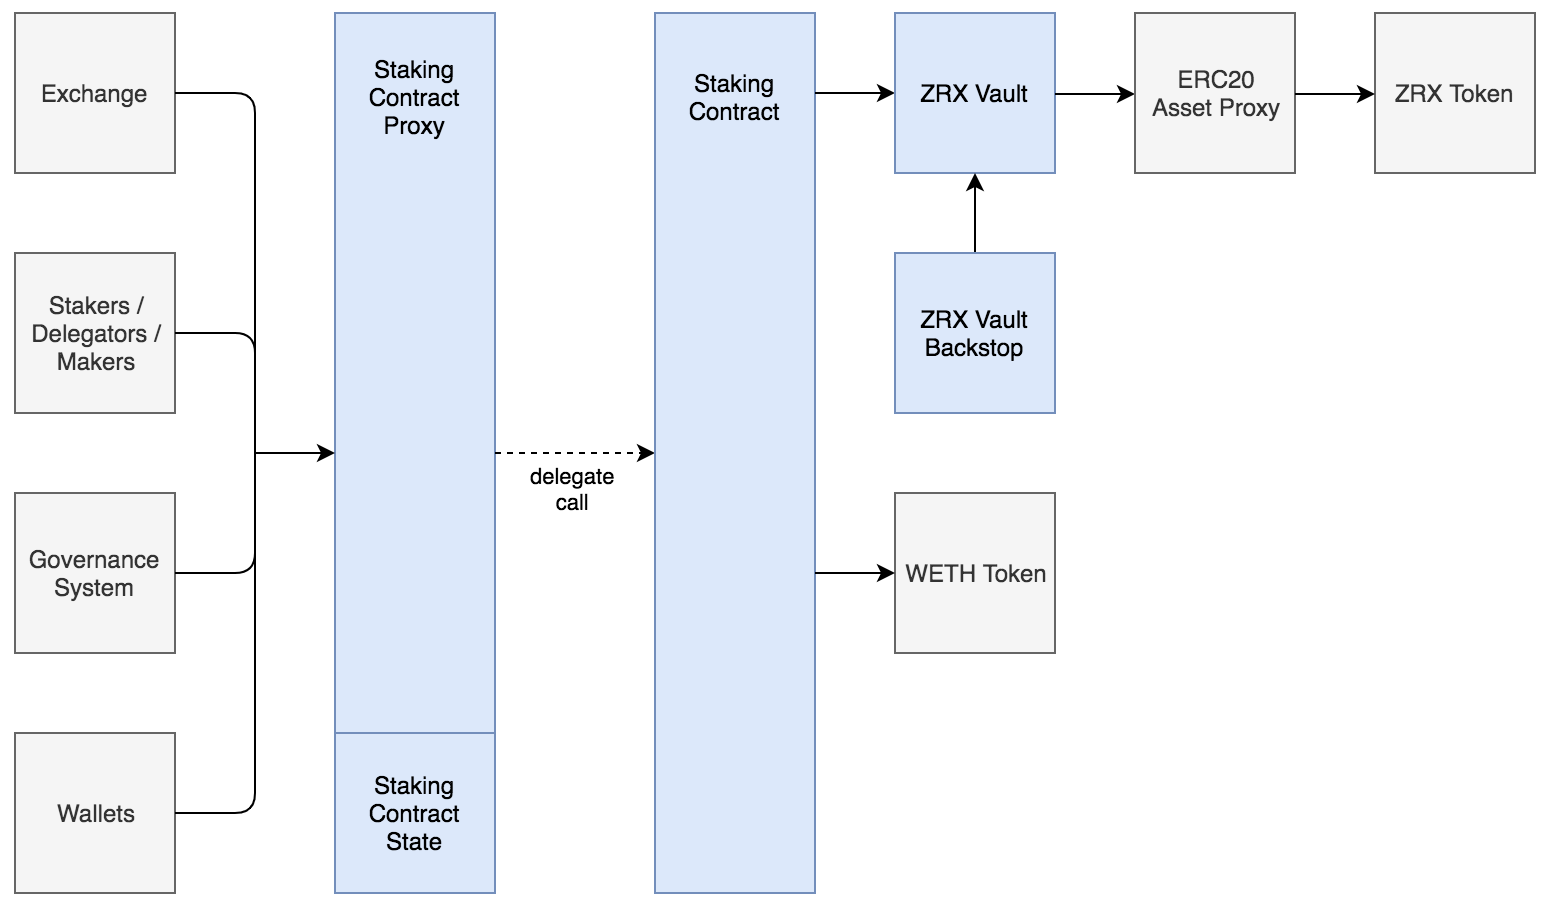
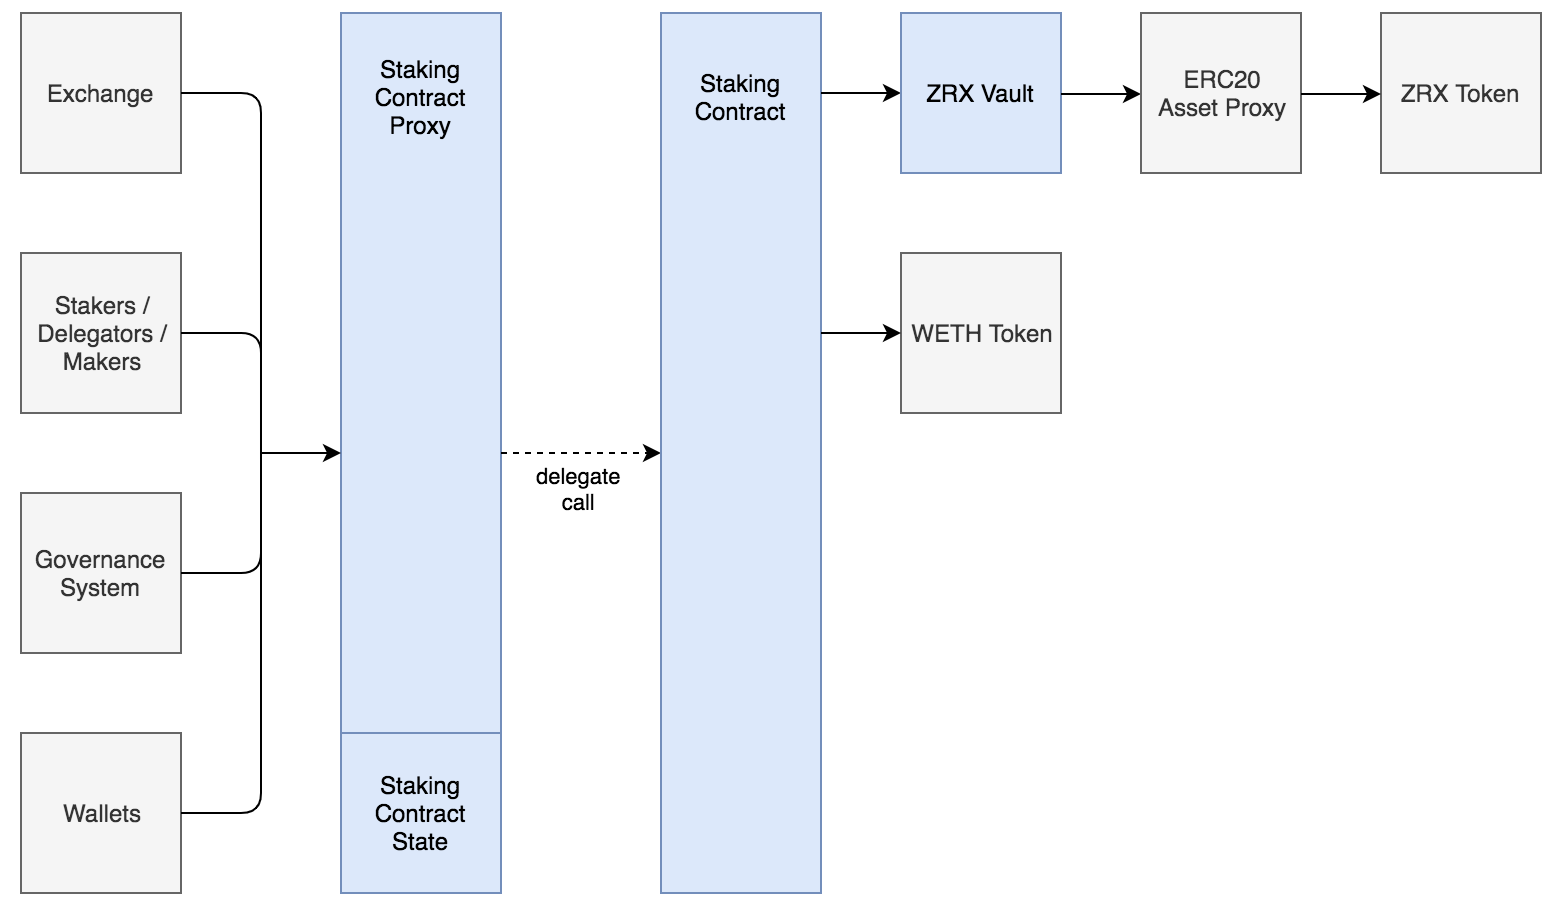
Removed Read-Only Proxy and ZRX Vault Backstop

diff --git a/staking/staking-specification.md b/staking/staking-specification.md
@@ -1,12 +1,12 @@
 # 0x protocol Staking specification
 
 ## Table of Contents
-[1 Overview](#1-overview)
+<br>[1 Overview](#1-overview)
 <br>&nbsp;&nbsp;&nbsp;&nbsp;[1.1 Motivation](#11-motivation)
 <br>&nbsp;&nbsp;&nbsp;&nbsp;[1.2 Utility of Stake](#12-utility-of-stake)
 <br>&nbsp;&nbsp;&nbsp;&nbsp;[1.3 Staking Pools](#13-staking-pools)
 <br>[2 Architecture](#2-architecture)
-<br>&nbsp;&nbsp;&nbsp;&nbsp;[2.1 Read-Only Mode](#21-read-only-mode)
+<br>&nbsp;&nbsp;&nbsp;&nbsp;[2.1 Normal Mode](#21-normal-mode)
 <br>&nbsp;&nbsp;&nbsp;&nbsp;[2.2 Catastrophic Failure Mode](#22-catastrophic-failure-mode)
 <br>[3 Contract Migrations](#3-contract-migrations)
 <br>&nbsp;&nbsp;&nbsp;&nbsp;[3.1 Deploying the system](#31-deploying-the-system)
@@ -16,11 +16,10 @@
 <br>&nbsp;&nbsp;&nbsp;&nbsp;[3.5 Handling upgrades to the ERC20 Proxy or ERC20 Asset Data](#35-handling-upgrades-to-the-erc20-proxy-or-erc20-asset-data)
 <br>&nbsp;&nbsp;&nbsp;&nbsp;[3.6 Setting Parameters](#36-setting-parameters)
 <br>&nbsp;&nbsp;&nbsp;&nbsp;[3.7 Managing Exchange Addresses](#37-managing-exchange-addresses)
-<br>&nbsp;&nbsp;&nbsp;&nbsp;[3.8 Forcing Catastrophic Failure after Prolonged Read-Only Mode](#38-forcing-catastrophic-failure-after-prolonged-read-only-mode)
 <br>[4 Epochs & Scheduling](#4-epochs--scheduling)
 <br>&nbsp;&nbsp;&nbsp;&nbsp;[4.1 Ending One Epoch, and Starting a New One](#41-ending-one-epoch-and-starting-a-new-one)
-<br>&nbsp;&nbsp;&nbsp;&nbsp;&nbsp;&nbsp;&nbsp;&nbsp;[4.1 Logic of `endEpoch`](#41-logic-of-endepoch)
-<br>&nbsp;&nbsp;&nbsp;&nbsp;&nbsp;&nbsp;&nbsp;&nbsp;[4.1 Errors by `endEpoch`](#41-errors-by-endepoch)
+<br>&nbsp;&nbsp;&nbsp;&nbsp;&nbsp;&nbsp;&nbsp;&nbsp;[4.1.1 Logic of `endEpoch`](#411-logic-of-endepoch)
+<br>&nbsp;&nbsp;&nbsp;&nbsp;&nbsp;&nbsp;&nbsp;&nbsp;[4.1.2 Errors by `endEpoch`](#412-errors-by-endepoch)
 <br>[5 Staking](#5-staking)
 <br>&nbsp;&nbsp;&nbsp;&nbsp;&nbsp;&nbsp;&nbsp;&nbsp;[5.0.1 Logic of `stake`](#501-logic-of-stake)
 <br>&nbsp;&nbsp;&nbsp;&nbsp;&nbsp;&nbsp;&nbsp;&nbsp;[5.0.2 Errors by `stake`](#502-errors-by-stake)
@@ -54,24 +53,18 @@
 <br>&nbsp;&nbsp;&nbsp;&nbsp;[9.1 Staking Logic Contract](#91-staking-logic-contract)
 <br>&nbsp;&nbsp;&nbsp;&nbsp;[9.2 Staking Contract State](#92-staking-contract-state)
 <br>&nbsp;&nbsp;&nbsp;&nbsp;[9.3 Staking Proxy Contract](#93-staking-proxy-contract)
-<br>&nbsp;&nbsp;&nbsp;&nbsp;[9.4 Read-Only Proxy Contract](#94-read-only-proxy-contract)
-<br>&nbsp;&nbsp;&nbsp;&nbsp;[9.5 ZRX Vault](#95-zrx-vault)
-<br>&nbsp;&nbsp;&nbsp;&nbsp;[9.6 ZRX Vault Backstop](#96-zrx-vault-backstop)
-<br>&nbsp;&nbsp;&nbsp;&nbsp;[9.7 Structs](#97-structs)
+<br>&nbsp;&nbsp;&nbsp;&nbsp;[9.4 ZRX Vault](#94-zrx-vault)
+<br>&nbsp;&nbsp;&nbsp;&nbsp;[9.5 Structs](#95-structs)
 <br>[10 Events](#10-events)
 <br>&nbsp;&nbsp;&nbsp;&nbsp;[10.1 Staking Logic Contract](#101-staking-logic-contract)
 <br>&nbsp;&nbsp;&nbsp;&nbsp;[10.2 Staking Proxy Contract](#102-staking-proxy-contract)
-<br>&nbsp;&nbsp;&nbsp;&nbsp;[10.3 Read-Only Proxy Contract](#103-read-only-proxy-contract)
-<br>&nbsp;&nbsp;&nbsp;&nbsp;[10.4 ZRX Vault](#104-zrx-vault)
-<br>&nbsp;&nbsp;&nbsp;&nbsp;[10.5 ZRX Vault Backstop](#105-zrx-vault-backstop)
+<br>&nbsp;&nbsp;&nbsp;&nbsp;[10.3 ZRX Vault](#103-zrx-vault)
 <br>[11 Algorithms, Data Structures & Design Patterns](#11-algorithms-data-structures--design-patterns)
 <br>&nbsp;&nbsp;&nbsp;&nbsp;[11.1 Securing the Proxy Pattern](#111-securing-the-proxy-pattern)
-<br>&nbsp;&nbsp;&nbsp;&nbsp;[11.2 The Read-Only Proxy](#112-the-read-only-proxy)
-<br>&nbsp;&nbsp;&nbsp;&nbsp;[11.3 Tracking for Reward Balances for Pool Members](#113-tracking-for-reward-balances-for-pool-members)
-<br>&nbsp;&nbsp;&nbsp;&nbsp;&nbsp;&nbsp;&nbsp;&nbsp;[11.3.1 Computing Rewards in Practice](#1131-computing-rewards-in-practice)
-<br>&nbsp;&nbsp;&nbsp;&nbsp;&nbsp;&nbsp;&nbsp;&nbsp;[11.3.2 Handling Epochs With No Rewards](#1132-handling-epochs-with-no-rewards)
-<br>&nbsp;&nbsp;&nbsp;&nbsp;[11.4 Stake Management](#114-stake-management)
-
+<br>&nbsp;&nbsp;&nbsp;&nbsp;[11.2 Tracking for Reward Balances for Pool Members](#112-tracking-for-reward-balances-for-pool-members)
+<br>&nbsp;&nbsp;&nbsp;&nbsp;&nbsp;&nbsp;&nbsp;&nbsp;[11.2.1 Computing Rewards in Practice](#1121-computing-rewards-in-practice)
+<br>&nbsp;&nbsp;&nbsp;&nbsp;&nbsp;&nbsp;&nbsp;&nbsp;[11.2.2 Handling Epochs With No Rewards](#1122-handling-epochs-with-no-rewards)
+<br>&nbsp;&nbsp;&nbsp;&nbsp;[11.3 Stake Management](#113-stake-management)
 
 ## 1 Overview
 
@@ -97,42 +90,29 @@ Staking pools can also be used to increase voting power. Delegators share a port
 
 ## 2 Architecture
 
-The smart contract architecture is derived from the proxy pattern, which allows state to be retained across upgrades to the logic.
-
-This system is composed of five contracts:
+The system of staking contracts is composed of three contracts.
 
 |Contract|Description |
 |--|--|
-| Staking Contract | An upgradeable/stateless contract that implements staking logic |
+|Staking Contract| An upgradeable/stateless contract that implements staking logic|
 |Staking Proxy|Stores staking state and delegates to the Staking Contract|
-|Read-Only Proxy|Forces read-only calls to the Staking Contract|
 |ZRX Vault|Securely holds staked ZRX Tokens|
-|ZRX Vault Backstop|Failsafe allowing users to withdraw their ZRX directly from the ZRX Vault|
 
-The diagram below shows how these contracts connect to each other and the broader 0x ecosystem.
+### 2.1 Normal Mode
+
+The diagram below shows how the staking contracts connect to each other and the broader 0x ecosystem.
 
 <p align="center"><img src="./assets/Staking%20Architecture%20-%20Basic.png" width="700" /></p>
 
-
-### 2.1 Read-Only Mode
-
-If a vulnerability is discovered in the staking contract, operations may be halted to conduct forensics:
-
-1.  The 0x Exchange contract stops charging protocol fees.
-2.  The staking contract is set to read-only mode.
-
-<p align="center"><img src="./assets/Staking%20Architecture%20-%20Read-Only.png" width="750" /></p>
-
 ### 2.2 Catastrophic Failure Mode
 
-In this worst-case scenario, state has been irreparably corrupted and the staking contracts must be redeployed. Users would re-stake under the new system, at will.
+In this worst-case scenario, state has been irreparably corrupted and the staking contracts must be redeployed. Users would withdraw their ZRX and re-stake under the new system.
 
-1. The ZRX vault is detached from the staking contract.
-2. Users withdraw their funds from the ZRX vault directly.
+1. The 0x Exchange contract stops charging protocol fees.
+2. The ZRX vault is detached from the staking contract.
+3. Users withdraw their funds from the ZRX vault directly.
 
 <p align="center"><img src="./assets/Staking%20Architecture%20-%20Catastrophic%20Failure.png" width="750" /></p>
-
-Note: Anyone can enable Catastrophic Failure Mode by calling the ZRX Vault Backstop after the system has been in Read-Only Mode for 40 days.
 
 ## 3 Contract Migrations
 
@@ -143,9 +123,7 @@ This section outlines steps for managing the system of smart contracts. Operatio
 1. Deploy ZRX Vault.
 2. Deploy Staking Contract (address of ZRX Vault is hardcoded in this contract).
 3. Deploy Staking Proxy.
-4. Deploy Read-Only Proxy.
-5. Attach Staking Contract to Staking Proxy.
-6. Deploy ZRX Vault Backstop.
+4. Attach Staking Contract to Staking Proxy.
 
 ### 3.2 Upgrading Staking Proxy
 
@@ -231,17 +209,6 @@ function validExchanges(address addr)
     returns (bool isValid);
 ```
 
-### 3.8 Forcing Catastrophic Failure after Prolonged Read-Only Mode
-
-After the system has been in Read-Only mode for 40 days, anyone can force the ZRX Vault into Catastrophic Failure Mode by calling into the ZRX Vault Backstop contract.
-
-```solidity
-/// @dev Triggers catastophic failure mode in the zrxzVault iff read-only mode
-///      has been continuously set for at least 40 days.
-function enterCatastrophicFailureIfProlongedReadOnlyMode()
-    external;
-```
-
 ## 4 Epochs & Scheduling
 
 All processes in the system are segmented into contiguous time intervals, called epochs. Epochs have a fixed minimum period (10 days at time of writing), which is configurable via [MixinParams](https://github.com/0xProject/0x-monorepo/blob/3.0/contracts/staking/contracts/src/sys/MixinParams.sol). Epochs serve as the basis for all other timeframes within the system, which provides a more stable and consistent scheduling metric than blocks or block timestamps.
@@ -264,7 +231,7 @@ function endEpoch()
 
 The return value describes the number of pools to finalize; this concept is described in [Section 6.2](#62-paying-liquidity-rewards-finalization).
 
-#### 4.1 Logic of `endEpoch`
+#### 4.1.1 Logic of `endEpoch`
 
 When this function is called:
 1. Assert the previous epoch (`currentEpoch-1`) is finalized: all rewards have been paid to pools.
@@ -275,7 +242,7 @@ When this function is called:
 6. Increase the `currentEpoch` by 1.
 7. If no pools earned rewards this epoch then the epoch is implicitly finalized; emit the [EpochFinalized](https://github.com/0xProject/0x-monorepo/blob/3.0/contracts/staking/contracts/src/interfaces/IStakingEvents.sol#L72) Event.
 
-#### 4.1 Errors by `endEpoch`
+#### 4.1.2 Errors by `endEpoch`
 
 |Error|Condition|
 |--|--|
@@ -703,8 +670,6 @@ function batchExecute(bytes[] calldata data)
 2. Execute each call to the Staking Contract, constructing an array of return data.
 3. Revert if a single call fails.
 
-Note that if the system is in Read-Only mode then batch transactions will route through the Read-Only proxy.
-
 #### 7.0.2 Errors by `batchExecute`
 
 |Error|Condition|
@@ -999,16 +964,6 @@ function stakingContract()
     view
     returns (address);
 
-function readOnlyProxy()
-    external
-    view
-    returns (address);
-
-function readOnlyProxyCallee()
-    external
-    view
-    returns (address);
-
 function lastPoolId()
     external
     view
@@ -1081,12 +1036,6 @@ function attachStakingContract(address _stakingContract)
 function detachStakingContract()
     external;
 
-/// @dev Gets state of stakingProxy read-only mode.
-function readOnlyState()
-    external
-    view
-    returns (IStructs.ReadOnlyState memory);
-
 /// @dev Asserts that an epoch is between 5 and 30 days long.
 //       Asserts that 0 < cobb douglas alpha value <= 1.
 //       Asserts that a stake weight is <= 100%.
@@ -1097,11 +1046,7 @@ function assertValidStorageParams()
     view;
 ```
 
-### 9.4 Read-Only Proxy Contract
-
-The Read-Only proxy implements only the fallback function.
-
-### 9.5 ZRX Vault
+### 9.4 ZRX Vault
 
 This interface is defined in [IZrxVault](https://github.com/0xProject/0x-monorepo/blob/3.0/contracts/staking/contracts/src/interfaces/IZrxVault.sol).
 
@@ -1162,30 +1107,11 @@ function balanceOfZrxVault()
     returns (uint256);
 ```
 
-### 9.6 ZRX Vault Backstop
-
-This interface is defined in [IZrxVaultBackstop](https://github.com/0xProject/0x-monorepo/blob/3.0/contracts/staking/contracts/src/interfaces/IZrxVaultBackstop.sol).
-
-```solidity
-/// @dev Triggers catastophic failure mode in the zrxzVault iff read-only mode
-///      has been continuously set for at least 40 days.
-function enterCatastrophicFailureIfProlongedReadOnlyMode()
-    external;
-```
-
-### 9.7 Structs
+### 9.5 Structs
 
 This interface is defined in [IStructs](https://github.com/0xProject/0x-monorepo/blob/3.0/contracts/staking/contracts/src/interfaces/IStructs.sol).
 
 ```solidity
-/// @dev State of stakingProxy read-only mode.
-/// @param isReadOnlyModeSet True if in read-only mode.
-/// @param lastSetTimestamp Timestamp at which read-only mode was last set.
-struct ReadOnlyState {
-    bool isReadOnlyModeSet;
-    uint96 lastSetTimestamp;
-}
-
 /// @dev Stats for a pool that earned rewards.
 /// @param feesCollected Fees collected in ETH by this pool.
 /// @param weightedStake Amount of weighted stake in the pool.
@@ -1404,19 +1330,9 @@ event StakingContractAttachedToProxy(
 
 /// @dev Emitted by StakingProxy when a staking contract is detached.
 event StakingContractDetachedFromProxy();
-
-/// @dev Emitted by StakingProxy when read-only mode is set.
-event ReadOnlyModeSet(
-    bool readOnlyMode,
-    uint96 timestamp
-);
 ```
 
-### 10.3 Read-Only Proxy Contract
-
-The read-only proxy does not emit any events.
-
-### 10.4 ZRX Vault
+### 10.3 ZRX Vault
 
 These events are defined in [IZrxVault](https://github.com/0xProject/0x-monorepo/blob/3.0/contracts/staking/contracts/src/interfaces/IZrxVault.sol).
 
@@ -1448,10 +1364,6 @@ event Withdraw(
 event ZrxProxySet(address zrxProxyAddress);
 ```
 
-### 10.5 ZRX Vault Backstop
-
-The ZRX Vault Backstop does not emit any events.
-
 ## 11 Algorithms, Data Structures & Design Patterns
 
 This section dives deeper into the mechanics of the smart contracts.
@@ -1468,20 +1380,7 @@ The best way we found to mitigate this danger is with runtime sanity checks. We 
 
 See [LibProxy](https://github.com/0xProject/0x-monorepo/blob/3.0/contracts/staking/contracts/src/libs/LibProxy.sol) for the proxy code.
 
-### 11.2 The Read-Only Proxy
-
-The [read-only proxy](https://github.com/0xProject/0x-monorepo/blob/3.0/contracts/staking/contracts/src/ReadOnlyProxy.sol) is stateless and sits between the Staking Contract Proxy and Staking Contract. It forces every call to be read-only by using a force-revert delegate-call.
-
-Steps:
-1. The read-only proxy delegates the incoming call to itself.
-2. On re-entry, we delegate to the Staking Contract and then _reverts_ with the return data.
-3. The revert is caught and returned to the Staking Proxy.
-
-<p align="center"><img src="./assets/Read-Only%20Proxy.png" width="600" /></p>
-
-See [LibProxy](https://github.com/0xProject/0x-monorepo/blob/3.0/contracts/staking/contracts/src/libs/LibProxy.sol) for the proxy code.
-
-### 11.3 Tracking for Reward Balances for Pool Members
+### 11.2 Tracking for Reward Balances for Pool Members
 
 
 This section describes the workflow for tracking and computing the portion of a pool's reward that belongs to a given member. The general equations for this are shown below.
@@ -1526,7 +1425,7 @@ mapping (bytes32  => StoredBalance) internal _delegatedStakeByPoolId;
 mapping (bytes32  =>  mapping (uint256  => Fraction)) internal _cumulativeRewardsByPool;
 ```
 
-#### 11.3.1 Computing Rewards in Practice
+#### 11.2.1 Computing Rewards in Practice
 
 In the equations above, a staker earned rewards from epochs `[0..n]`. This means that the staker modified between epochs `n` and stopped earning rewards in epoch `n+1`. So at the time of the call, we don't have access to the reward for epoch `n`.
 
@@ -1539,7 +1438,7 @@ The final equation for computing a member's reward during epoch `n` becomes:
 <p align="center"><img src="./assets/reward_tracking/Reward-Final.png" height="60" /></p>
 
 
-#### 11.3.2 Handling Epochs With No Rewards
+#### 11.2.2 Handling Epochs With No Rewards
 
 To compute a member's reward using this algorithm, we need to know the cumulative rewards at the entry and exit epoch of the member. But, what happens if no reward was recorded during one of these epochs?
 
@@ -1552,7 +1451,7 @@ We keep track of the last epoch that the `cumulativeRewardsByPool` was updated i
 mapping (bytes32  =>  uint256) internal cumulativeRewardsByPoolLastStored;
 ```
 
-### 11.4 Stake Management
+### 11.3 Stake Management
 
 Below are the design objectives of stake management:
 
